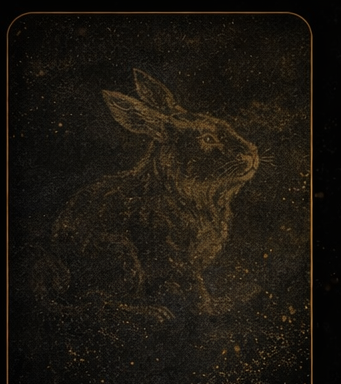
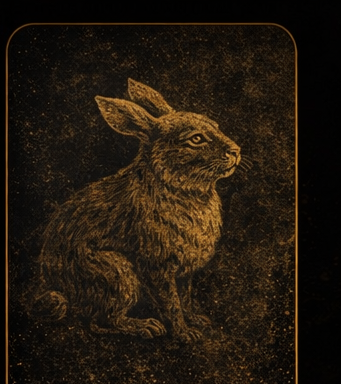
Add files via upload

diff --git a/index.html b/index.html
@@ -3,30 +3,21 @@
 <title>Treino Semanal Séries</title><meta name="theme-color" content="#050505">
 <link rel="manifest" href="/treino/manifest.json"><link rel="icon" href="/treino/icon-192.png">
 <style>
-:root{--panel:#111;--panel2:#1a1a1a;--text:#f5f5f5;--muted:#b8b8b8;--danger:#d93030;--good:#1db954;--warn:#d4a017;--border:rgba(255,255,255,.10);--shadow:0 14px 28px rgba(0,0,0,.3);--gold:#d4af37}
-*{box-sizing:border-box;-webkit-tap-highlight-color:transparent}
-body{margin:0;font-family:Arial,Helvetica,sans-serif;color:var(--text);background:linear-gradient(180deg,#000 0%,#111 100%)}
-.wrap{max-width:980px;margin:0 auto;padding:16px 14px 90px}
-.hero{position:sticky;top:0;z-index:20;background:rgba(0,0,0,.94);backdrop-filter:blur(10px);border-bottom:1px solid var(--border);margin:0 -14px 14px;padding:16px 14px}
+:root{--panel:#111;--panel2:#1a1a1a;--text:#f5f5f5;--muted:#b8b8b8;--danger:#d93030;--good:#1db954;--warn:#d4a017;--border:rgba(255,255,255,.10);--shadow:0 14px 28px rgba(0,0,0,.3)}
+*{box-sizing:border-box;-webkit-tap-highlight-color:transparent}body{margin:0;font-family:Arial,Helvetica,sans-serif;color:var(--text);background:linear-gradient(180deg,#000 0%,#111 100%)}
+.wrap{max-width:980px;margin:0 auto;padding:16px 14px 90px}.hero{position:sticky;top:0;z-index:20;background:rgba(0,0,0,.94);backdrop-filter:blur(10px);border-bottom:1px solid var(--border);margin:0 -14px 14px;padding:16px 14px}
 .hero h1{margin:0;font-size:30px}.hero p{margin:6px 0 0;color:var(--muted);font-size:14px;line-height:1.45}
-.proverb-card{position:relative;overflow:hidden;border:1px solid rgba(212,175,55,.24);border-radius:24px;box-shadow:var(--shadow);margin-bottom:14px;min-height:320px;background:#0d0d0d}
-.proverb-overlay{position:absolute;inset:0;background:
-linear-gradient(90deg, rgba(0,0,0,.84) 0%, rgba(0,0,0,.74) 38%, rgba(0,0,0,.42) 70%, rgba(0,0,0,.22) 100%),
-linear-gradient(180deg, rgba(0,0,0,.18), rgba(0,0,0,.34)),
-radial-gradient(circle at top right, rgba(212,175,55,.16), transparent 32%);
-z-index:1}
-.proverb-bg{position:absolute;inset:0;background-position:78% center;background-size:contain;background-repeat:no-repeat;filter:brightness(.92) contrast(1.02);transform:scale(.96)}
+.proverb-card{position:relative;overflow:hidden;border:1px solid rgba(212,175,55,.24);border-radius:24px;box-shadow:var(--shadow);margin-bottom:14px;min-height:330px;background:#0d0d0d}
+.proverb-bg{position:absolute;inset:0;background-position:center center;background-size:cover;background-repeat:no-repeat;filter:brightness(.95)}
+.proverb-overlay{position:absolute;inset:0;background:linear-gradient(90deg, rgba(0,0,0,.88) 0%, rgba(0,0,0,.78) 35%, rgba(0,0,0,.38) 65%, rgba(0,0,0,.18) 100%),linear-gradient(180deg, rgba(0,0,0,.12), rgba(0,0,0,.26));z-index:1}
 .proverb-content{position:relative;z-index:2;padding:18px;max-width:68%}
-.proverb-top{display:flex;justify-content:space-between;align-items:center;gap:12px}
-.proverb-label{font-size:12px;font-weight:800;letter-spacing:.16em;text-transform:uppercase;color:#f4df95}
+.proverb-top{display:flex;justify-content:space-between;align-items:center;gap:12px}.proverb-label{font-size:12px;font-weight:800;letter-spacing:.16em;text-transform:uppercase;color:#f4df95}
 .badge{font-size:11px;font-weight:700;border:1px solid rgba(255,255,255,.14);padding:6px 10px;border-radius:999px;color:#f3f3f3;background:rgba(255,255,255,.05)}
-.quote-wrap{margin-top:18px}
-.quote-mark{font-family:Georgia,"Times New Roman",serif;font-size:64px;line-height:.7;color:#d6ad4d;opacity:.95}
-.proverb-text{font-family:Georgia,"Times New Roman",serif;font-size:clamp(28px,5vw,42px);line-height:1.08;font-weight:700;color:#fff6dc;max-width:82%}
+.quote-mark{font-family:Georgia,"Times New Roman",serif;font-size:64px;line-height:.7;color:#d6ad4d;opacity:.95;margin-top:18px}
+.proverb-text{font-family:Georgia,"Times New Roman",serif;font-size:clamp(28px,5vw,42px);line-height:1.08;font-weight:700;color:#fff6dc}
 .proverb-footer{margin-top:18px;font-size:14px;color:#e6d39c}
 .block,.timer,.mini,.day,.history,.stats{background:var(--panel);border:1px solid var(--border);border-radius:20px;box-shadow:var(--shadow)}
-.block,.timer,.history,.stats{padding:14px;margin-bottom:14px}
-.block strong,.stats strong,.history strong{display:block;color:#fff;margin-bottom:6px}
+.block,.timer,.history,.stats{padding:14px;margin-bottom:14px}.block strong,.stats strong,.history strong{display:block;color:#fff;margin-bottom:6px}
 .row,.controls,.toolbar{display:flex;gap:10px;flex-wrap:wrap;margin-top:10px}
 button{border:0;border-radius:16px;padding:12px 14px;font-weight:700;font-size:16px;color:white;background:var(--panel2);min-height:48px}
 button.primary{background:#fff;color:#000}button.good{background:var(--good);color:#041c0e}button.danger{background:var(--danger)}button.warn{background:var(--warn);color:#2e2100}button.ghost{background:transparent;border:1px solid var(--border)}
@@ -39,18 +30,10 @@ button.primary{background:#fff;color:#000}button.good{background:var(--good);col
 .series-row{display:flex;gap:8px;flex-wrap:wrap;margin-top:10px}.series-box{width:34px;height:34px;border-radius:10px;border:2px solid rgba(255,255,255,.4);display:flex;align-items:center;justify-content:center;background:#fff;color:#000;font-weight:900;font-size:15px;cursor:pointer;user-select:none}
 .series-box.done{background:var(--good);border-color:var(--good);color:#041c0e}.series-label{font-size:12px;color:var(--muted);margin-top:6px}
 .history-item{background:rgba(255,255,255,.03);border:1px solid var(--border);border-radius:14px;padding:12px;margin-top:10px}.stats-grid{display:grid;grid-template-columns:1fr 1fr;gap:10px}.footer{color:var(--muted);text-align:center;font-size:12px;margin-top:12px}
-@media (max-width:480px){.proverb-text{max-width:100%;font-size:28px}.title{font-size:20px}.timer .time{font-size:38px}.proverb-card{min-height:280px}.proverb-bg{background-position:86% center;background-size:cover;transform:scale(1)}.proverb-content{max-width:76%}}
+@media (max-width:480px){.proverb-card{min-height:360px}.proverb-content{max-width:72%}.proverb-text{font-size:26px}.title{font-size:20px}.timer .time{font-size:38px}}
 </style></head><body><div class="wrap">
 <div class="hero"><h1>Treino Semanal Séries</h1><p>Agora com provérbio do dia em destaque e artes dos 12 animais do horóscopo chinês distribuídas pelas 60 frases.</p></div>
-<div class="proverb-card">
-  <div class="proverb-bg" id="proverbBg"></div>
-  <div class="proverb-overlay"></div>
-  <div class="proverb-content">
-    <div class="proverb-top"><div class="proverb-label">Provérbio do dia</div><div class="badge">Sabedoria oriental</div></div>
-    <div class="quote-wrap"><div class="quote-mark">“</div><div class="proverb-text" id="messageText"></div></div>
-    <div class="proverb-footer" id="animalName"></div>
-  </div>
-</div>
+<div class="proverb-card"><div class="proverb-bg" id="proverbBg"></div><div class="proverb-overlay"></div><div class="proverb-content"><div class="proverb-top"><div class="proverb-label">Provérbio do dia</div><div class="badge">Sabedoria oriental</div></div><div class="quote-mark">“</div><div class="proverb-text" id="messageText"></div><div class="proverb-footer" id="animalName"></div></div></div>
 <div class="block"><strong>Instalar como app</strong><div id="installText">Abra no Chrome e aguarde alguns segundos. Se o botão aparecer, toque nele.</div><div class="row"><button id="installBtn" class="good" style="display:none">Instalar app</button><button id="exportBtn" class="ghost">Exportar progresso</button></div></div>
 <div class="row"><button id="wakeBtn" class="warn">Modo academia: desligado</button><button id="notifyBtn" class="ghost">Som e vibração: ligados</button></div>
 <div class="grid"><div class="mini"><div class="label">Frequência</div><div class="value">5x/semana</div></div><div class="mini"><div class="label">Horários</div><div class="value">19h / 10h</div></div><div class="mini"><div class="label">Descanso</div><div class="value">45–90s</div></div><div class="mini"><div class="label">Meta da semana</div><div class="value" id="globalPct">0%</div></div></div>
@@ -61,7 +44,7 @@ button.primary{background:#fff;color:#000}button.good{background:var(--good);col
 <div class="history"><strong>Histórico</strong><div id="historyList">Nenhum treino finalizado ainda.</div></div>
 <div class="footer">App de treino com séries • provérbios do dia • salvo localmente no seu celular.</div></div>
 <script>
-const DAYS={"terca": {"title": "Terça — Peito + Tríceps", "sub": "19h • descanso 60–90s", "exs": [["Supino inclinado máquina", 4, "10 repetições", "90s"], ["Supino inclinado halter", 4, "10 repetições", "90s"], ["Crucifixo máquina", 4, "12 repetições", "60s"], ["Tríceps corda pulley", 4, "12 repetições", "60s"], ["Tríceps francês corda", 4, "12 repetições", "60s"], ["Coice corda isolado", 4, "12 repetições", "60s"]]}, "quarta": {"title": "Quarta — Costas + Bíceps", "sub": "19h • descanso 60–90s", "exs": [["Puxada frontal aberta", 4, "10 repetições", "90s"], ["Remada baixa triângulo", 4, "10 repetições", "90s"], ["Puxada em pé corda", 3, "12 repetições", "60s"], ["Crucifixo inverso", 3, "12 repetições", "60s"], ["Scott", 4, "10 repetições", "60s"], ["Rosca unilateral halter", 3, "10 repetições", "60s"], ["Polia baixa corda", 3, "12 repetições", "60s"]]}, "quinta": {"title": "Quinta — Perna + Ombro + Trapézio", "sub": "19h • perna primeiro • descanso 60–90s", "exs": [["Leg press", 4, "12 repetições", "90s"], ["Extensora", 3, "15 repetições", "60s"], ["Flexora", 3, "15 repetições", "60s"], ["Adutor", 3, "15 repetições", "60s"], ["Abdutor", 3, "15 repetições", "60s"], ["Panturrilha", 4, "15–20 repetições", "60s"], ["Desenvolvimento máquina", 4, "10 repetições", "90s"], ["Remada alta máquina", 3, "12 repetições", "60s"], ["Encolhimento trapézio", 4, "12–15 repetições", "60s"]]}, "sabado": {"title": "Sábado — Peito + Tríceps", "sub": "10h • variação leve • descanso 60–90s", "exs": [["Supino máquina reto", 4, "10 repetições", "90s"], ["Supino inclinado halter", 4, "10 repetições", "90s"], ["Crucifixo máquina", 4, "12 repetições", "60s"], ["Tríceps corda", 4, "12 repetições", "60s"], ["Francês corda", 4, "12 repetições", "60s"]]}, "domingo": {"title": "Domingo — Costas + Bíceps", "sub": "10h • descanso 60–90s", "exs": [["Puxada frontal aberta", 4, "10 repetições", "90s"], ["Remada baixa triângulo", 4, "10 repetições", "90s"], ["Crucifixo inverso", 3, "12 repetições", "60s"], ["Scott", 4, "10 repetições", "60s"], ["Rosca halter", 3, "10 repetições", "60s"]]}}, MESSAGE_CARDS=[{"text": "A jornada mais longa começa com o primeiro passo.", "animal": {"name": "Galo", "slug": "galo", "file": "animal_galo.png"}}, {"text": "Não tenha medo de andar devagar; tenha medo de ficar parado.", "animal": {"name": "Rato", "slug": "rato", "file": "animal_rato.png"}}, {"text": "Quem move uma montanha começa carregando pequenas pedras.", "animal": {"name": "Cavalo", "slug": "cavalo", "file": "animal_cavalo.png"}}, {"text": "A melhor hora para plantar uma árvore foi há vinte anos; a segunda melhor hora é agora.", "animal": {"name": "Porco", "slug": "porco", "file": "animal_porco.png"}}, {"text": "Água constante encontra caminho mesmo entre pedras.", "animal": {"name": "Boi", "slug": "boi", "file": "animal_boi.png"}}, {"text": "Quem aprende a esperar amadurece em silêncio.", "animal": {"name": "Cabra", "slug": "cabra", "file": "animal_cabra.png"}}, {"text": "Uma palavra branda pode abrir portas fechadas.", "animal": {"name": "Cão", "slug": "cao", "file": "animal_cao.png"}}, {"text": "A paciência é amarga, mas seus frutos são doces.", "animal": {"name": "Tigre", "slug": "tigre", "file": "animal_tigre.png"}}, {"text": "Quando o vento muda, alguns levantam muros; outros constroem moinhos.", "animal": {"name": "Dragão", "slug": "dragao", "file": "animal_dragao.png"}}, {"text": "Um rio profundo corre sem alarde.", "animal": {"name": "Macaco", "slug": "macaco", "file": "animal_macaco.png"}}, {"text": "Quem faz com constância vai além de quem começa com pressa.", "animal": {"name": "Coelho", "slug": "coelho", "file": "animal_coelho.png"}}, {"text": "O bambu que se dobra é mais forte do que o carvalho que resiste a tudo.", "animal": {"name": "Serpente", "slug": "serpente", "file": "animal_serpente.png"}}, {"text": "Antes de corrigir o mundo, arrume o próprio passo.", "animal": {"name": "Galo", "slug": "galo", "file": "animal_galo.png"}}, {"text": "O sábio observa mais do que fala.", "animal": {"name": "Cabra", "slug": "cabra", "file": "animal_cabra.png"}}, {"text": "Até a água turva se acalma quando deixada em repouso.", "animal": {"name": "Coelho", "slug": "coelho", "file": "animal_coelho.png"}}, {"text": "Grandes resultados nascem de pequenos gestos repetidos.", "animal": {"name": "Serpente", "slug": "serpente", "file": "animal_serpente.png"}}, {"text": "Quem domina a si mesmo já venceu metade da batalha.", "animal": {"name": "Rato", "slug": "rato", "file": "animal_rato.png"}}, {"text": "O tempo esclarece o que a pressa confunde.", "animal": {"name": "Cão", "slug": "cao", "file": "animal_cao.png"}}, {"text": "Nem todo silêncio é vazio; às vezes, é compreensão.", "animal": {"name": "Porco", "slug": "porco", "file": "animal_porco.png"}}, {"text": "O caminho fica mais leve para quem aprende a levar só o necessário.", "animal": {"name": "Macaco", "slug": "macaco", "file": "animal_macaco.png"}}, {"text": "Uma faísca cuidada pode acender grande chama.", "animal": {"name": "Tigre", "slug": "tigre", "file": "animal_tigre.png"}}, {"text": "Quem pergunta por um minuto aprende; quem não pergunta permanece perdido.", "animal": {"name": "Dragão", "slug": "dragao", "file": "animal_dragao.png"}}, {"text": "Mesmo a noite mais longa cede lugar ao amanhecer.", "animal": {"name": "Cavalo", "slug": "cavalo", "file": "animal_cavalo.png"}}, {"text": "O fruto amadurece no seu tempo, não no da ansiedade.", "animal": {"name": "Boi", "slug": "boi", "file": "animal_boi.png"}}, {"text": "A firmeza tranquila vale mais que a força impaciente.", "animal": {"name": "Porco", "slug": "porco", "file": "animal_porco.png"}}, {"text": "Quem cuida da raiz não teme a estação.", "animal": {"name": "Coelho", "slug": "coelho", "file": "animal_coelho.png"}}, {"text": "Uma casa em paz vale mais do que um palácio inquieto.", "animal": {"name": "Serpente", "slug": "serpente", "file": "animal_serpente.png"}}, {"text": "Não é a altura da montanha que vence o homem, mas a persistência do passo.", "animal": {"name": "Galo", "slug": "galo", "file": "animal_galo.png"}}, {"text": "Quem cultiva serenidade enxerga mais longe.", "animal": {"name": "Boi", "slug": "boi", "file": "animal_boi.png"}}, {"text": "O lago reflete o céu quando suas águas estão calmas.", "animal": {"name": "Macaco", "slug": "macaco", "file": "animal_macaco.png"}}, {"text": "Quando a mente se aquieta, a direção aparece.", "animal": {"name": "Cabra", "slug": "cabra", "file": "animal_cabra.png"}}, {"text": "O hábito de recomeçar é um tipo de sabedoria.", "animal": {"name": "Rato", "slug": "rato", "file": "animal_rato.png"}}, {"text": "A pressa tropeça onde a atenção pisaria firme.", "animal": {"name": "Cavalo", "slug": "cavalo", "file": "animal_cavalo.png"}}, {"text": "Quem guarda rancor carrega peso desnecessário.", "animal": {"name": "Tigre", "slug": "tigre", "file": "animal_tigre.png"}}, {"text": "Até o menor avanço é maior que a imobilidade.", "animal": {"name": "Cão", "slug": "cao", "file": "animal_cao.png"}}, {"text": "O homem prudente mede o passo antes de correr.", "animal": {"name": "Dragão", "slug": "dragao", "file": "animal_dragao.png"}}, {"text": "Uma árvore forte cresce devagar.", "animal": {"name": "Tigre", "slug": "tigre", "file": "animal_tigre.png"}}, {"text": "Quem espalha bondade nunca volta de mãos vazias.", "animal": {"name": "Serpente", "slug": "serpente", "file": "animal_serpente.png"}}, {"text": "O erro reconhecido já começou a se transformar em acerto.", "animal": {"name": "Cavalo", "slug": "cavalo", "file": "animal_cavalo.png"}}, {"text": "Quem escuta com atenção aprende duas vezes.", "animal": {"name": "Galo", "slug": "galo", "file": "animal_galo.png"}}, {"text": "A estrada ensina mais a quem caminha do que a quem apenas observa.", "animal": {"name": "Rato", "slug": "rato", "file": "animal_rato.png"}}, {"text": "Uma tigela cheia demais já não recebe mais nada.", "animal": {"name": "Dragão", "slug": "dragao", "file": "animal_dragao.png"}}, {"text": "O dia de hoje vale mais do que a promessa de amanhã.", "animal": {"name": "Cão", "slug": "cao", "file": "animal_cao.png"}}, {"text": "Quem mantém o coração em ordem organiza melhor o caminho.", "animal": {"name": "Porco", "slug": "porco", "file": "animal_porco.png"}}, {"text": "A calma é uma forma silenciosa de poder.", "animal": {"name": "Macaco", "slug": "macaco", "file": "animal_macaco.png"}}, {"text": "Não se apressa a primavera puxando as flores.", "animal": {"name": "Cabra", "slug": "cabra", "file": "animal_cabra.png"}}, {"text": "Quem aceita aprender nunca envelhece por dentro.", "animal": {"name": "Coelho", "slug": "coelho", "file": "animal_coelho.png"}}, {"text": "Uma lanterna pequena ainda é suficiente para atravessar a noite.", "animal": {"name": "Boi", "slug": "boi", "file": "animal_boi.png"}}, {"text": "Para endireitar o galho, cuide primeiro da raiz.", "animal": {"name": "Rato", "slug": "rato", "file": "animal_rato.png"}}, {"text": "Quem semeia constância colhe confiança.", "animal": {"name": "Boi", "slug": "boi", "file": "animal_boi.png"}}, {"text": "A verdade não precisa correr; ela chega.", "animal": {"name": "Coelho", "slug": "coelho", "file": "animal_coelho.png"}}, {"text": "A pedra é vencida menos pela força do golpe e mais pela repetição.", "animal": {"name": "Galo", "slug": "galo", "file": "animal_galo.png"}}, {"text": "Nem toda demora é perda; às vezes, é preparo.", "animal": {"name": "Macaco", "slug": "macaco", "file": "animal_macaco.png"}}, {"text": "Quem faz o simples com atenção constrói o extraordinário.", "animal": {"name": "Cabra", "slug": "cabra", "file": "animal_cabra.png"}}, {"text": "A mente apressada vê pouco; o olhar sereno enxerga fundo.", "animal": {"name": "Dragão", "slug": "dragao", "file": "animal_dragao.png"}}, {"text": "Se o coração estiver em paz, o caminho parecerá menos áspero.", "animal": {"name": "Serpente", "slug": "serpente", "file": "animal_serpente.png"}}, {"text": "O excesso de ruído afasta a clareza.", "animal": {"name": "Cavalo", "slug": "cavalo", "file": "animal_cavalo.png"}}, {"text": "Uma ponte se sustenta porque cada parte cumpre o seu papel.", "animal": {"name": "Porco", "slug": "porco", "file": "animal_porco.png"}}, {"text": "Quem honra o presente prepara melhor o futuro.", "animal": {"name": "Cão", "slug": "cao", "file": "animal_cao.png"}}, {"text": "O homem que cuida do que pensa melhora o que vive.", "animal": {"name": "Tigre", "slug": "tigre", "file": "animal_tigre.png"}}], REPO='/treino/', daysContainer=document.getElementById('daysContainer');
+const DAYS={"terca": {"title": "Terça — Peito + Tríceps", "sub": "19h • descanso 60–90s", "exs": [["Supino inclinado máquina", 4, "10 repetições", "90s"], ["Supino inclinado halter", 4, "10 repetições", "90s"], ["Crucifixo máquina", 4, "12 repetições", "60s"], ["Tríceps corda pulley", 4, "12 repetições", "60s"], ["Tríceps francês corda", 4, "12 repetições", "60s"], ["Coice corda isolado", 4, "12 repetições", "60s"]]}, "quarta": {"title": "Quarta — Costas + Bíceps", "sub": "19h • descanso 60–90s", "exs": [["Puxada frontal aberta", 4, "10 repetições", "90s"], ["Remada baixa triângulo", 4, "10 repetições", "90s"], ["Puxada em pé corda", 3, "12 repetições", "60s"], ["Crucifixo inverso", 3, "12 repetições", "60s"], ["Scott", 4, "10 repetições", "60s"], ["Rosca unilateral halter", 3, "10 repetições", "60s"], ["Polia baixa corda", 3, "12 repetições", "60s"]]}, "quinta": {"title": "Quinta — Perna + Ombro + Trapézio", "sub": "19h • perna primeiro • descanso 60–90s", "exs": [["Leg press", 4, "12 repetições", "90s"], ["Extensora", 3, "15 repetições", "60s"], ["Flexora", 3, "15 repetições", "60s"], ["Adutor", 3, "15 repetições", "60s"], ["Abdutor", 3, "15 repetições", "60s"], ["Panturrilha", 4, "15–20 repetições", "60s"], ["Desenvolvimento máquina", 4, "10 repetições", "90s"], ["Remada alta máquina", 3, "12 repetições", "60s"], ["Encolhimento trapézio", 4, "12–15 repetições", "60s"]]}, "sabado": {"title": "Sábado — Peito + Tríceps", "sub": "10h • variação leve • descanso 60–90s", "exs": [["Supino máquina reto", 4, "10 repetições", "90s"], ["Supino inclinado halter", 4, "10 repetições", "90s"], ["Crucifixo máquina", 4, "12 repetições", "60s"], ["Tríceps corda", 4, "12 repetições", "60s"], ["Francês corda", 4, "12 repetições", "60s"]]}, "domingo": {"title": "Domingo — Costas + Bíceps", "sub": "10h • descanso 60–90s", "exs": [["Puxada frontal aberta", 4, "10 repetições", "90s"], ["Remada baixa triângulo", 4, "10 repetições", "90s"], ["Crucifixo inverso", 3, "12 repetições", "60s"], ["Scott", 4, "10 repetições", "60s"], ["Rosca halter", 3, "10 repetições", "60s"]]}}, MESSAGE_CARDS=[{"text": "A jornada mais longa começa com o primeiro passo.", "animal": {"name": "Coelho", "slug": "coelho", "file": "animal_coelho.png"}}, {"text": "Não tenha medo de andar devagar; tenha medo de ficar parado.", "animal": {"name": "Serpente", "slug": "serpente", "file": "animal_serpente.png"}}, {"text": "Quem move uma montanha começa carregando pequenas pedras.", "animal": {"name": "Dragão", "slug": "dragao", "file": "animal_dragao.png"}}, {"text": "A melhor hora para plantar uma árvore foi há vinte anos; a segunda melhor hora é agora.", "animal": {"name": "Macaco", "slug": "macaco", "file": "animal_macaco.png"}}, {"text": "Água constante encontra caminho mesmo entre pedras.", "animal": {"name": "Rato", "slug": "rato", "file": "animal_rato.png"}}, {"text": "Quem aprende a esperar amadurece em silêncio.", "animal": {"name": "Cabra", "slug": "cabra", "file": "animal_cabra.png"}}, {"text": "Uma palavra branda pode abrir portas fechadas.", "animal": {"name": "Tigre", "slug": "tigre", "file": "animal_tigre.png"}}, {"text": "A paciência é amarga, mas seus frutos são doces.", "animal": {"name": "Cavalo", "slug": "cavalo", "file": "animal_cavalo.png"}}, {"text": "Quando o vento muda, alguns levantam muros; outros constroem moinhos.", "animal": {"name": "Porco", "slug": "porco", "file": "animal_porco.png"}}, {"text": "Um rio profundo corre sem alarde.", "animal": {"name": "Cão", "slug": "cao", "file": "animal_cao.png"}}, {"text": "Quem faz com constância vai além de quem começa com pressa.", "animal": {"name": "Boi", "slug": "boi", "file": "animal_boi.png"}}, {"text": "O bambu que se dobra é mais forte do que o carvalho que resiste a tudo.", "animal": {"name": "Galo", "slug": "galo", "file": "animal_galo.png"}}, {"text": "Antes de corrigir o mundo, arrume o próprio passo.", "animal": {"name": "Macaco", "slug": "macaco", "file": "animal_macaco.png"}}, {"text": "O sábio observa mais do que fala.", "animal": {"name": "Galo", "slug": "galo", "file": "animal_galo.png"}}, {"text": "Até a água turva se acalma quando deixada em repouso.", "animal": {"name": "Rato", "slug": "rato", "file": "animal_rato.png"}}, {"text": "Grandes resultados nascem de pequenos gestos repetidos.", "animal": {"name": "Porco", "slug": "porco", "file": "animal_porco.png"}}, {"text": "Quem domina a si mesmo já venceu metade da batalha.", "animal": {"name": "Serpente", "slug": "serpente", "file": "animal_serpente.png"}}, {"text": "O tempo esclarece o que a pressa confunde.", "animal": {"name": "Cavalo", "slug": "cavalo", "file": "animal_cavalo.png"}}, {"text": "Nem todo silêncio é vazio; às vezes, é compreensão.", "animal": {"name": "Cão", "slug": "cao", "file": "animal_cao.png"}}, {"text": "O caminho fica mais leve para quem aprende a levar só o necessário.", "animal": {"name": "Dragão", "slug": "dragao", "file": "animal_dragao.png"}}, {"text": "Uma faísca cuidada pode acender grande chama.", "animal": {"name": "Boi", "slug": "boi", "file": "animal_boi.png"}}, {"text": "Quem pergunta por um minuto aprende; quem não pergunta permanece perdido.", "animal": {"name": "Tigre", "slug": "tigre", "file": "animal_tigre.png"}}, {"text": "Mesmo a noite mais longa cede lugar ao amanhecer.", "animal": {"name": "Coelho", "slug": "coelho", "file": "animal_coelho.png"}}, {"text": "O fruto amadurece no seu tempo, não no da ansiedade.", "animal": {"name": "Cabra", "slug": "cabra", "file": "animal_cabra.png"}}, {"text": "A firmeza tranquila vale mais que a força impaciente.", "animal": {"name": "Serpente", "slug": "serpente", "file": "animal_serpente.png"}}, {"text": "Quem cuida da raiz não teme a estação.", "animal": {"name": "Coelho", "slug": "coelho", "file": "animal_coelho.png"}}, {"text": "Uma casa em paz vale mais do que um palácio inquieto.", "animal": {"name": "Macaco", "slug": "macaco", "file": "animal_macaco.png"}}, {"text": "Não é a altura da montanha que vence o homem, mas a persistência do passo.", "animal": {"name": "Galo", "slug": "galo", "file": "animal_galo.png"}}, {"text": "Quem cultiva serenidade enxerga mais longe.", "animal": {"name": "Cão", "slug": "cao", "file": "animal_cao.png"}}, {"text": "O lago reflete o céu quando suas águas estão calmas.", "animal": {"name": "Cabra", "slug": "cabra", "file": "animal_cabra.png"}}, {"text": "Quando a mente se aquieta, a direção aparece.", "animal": {"name": "Rato", "slug": "rato", "file": "animal_rato.png"}}, {"text": "O hábito de recomeçar é um tipo de sabedoria.", "animal": {"name": "Cavalo", "slug": "cavalo", "file": "animal_cavalo.png"}}, {"text": "A pressa tropeça onde a atenção pisaria firme.", "animal": {"name": "Porco", "slug": "porco", "file": "animal_porco.png"}}, {"text": "Quem guarda rancor carrega peso desnecessário.", "animal": {"name": "Dragão", "slug": "dragao", "file": "animal_dragao.png"}}, {"text": "Até o menor avanço é maior que a imobilidade.", "animal": {"name": "Tigre", "slug": "tigre", "file": "animal_tigre.png"}}, {"text": "O homem prudente mede o passo antes de correr.", "animal": {"name": "Boi", "slug": "boi", "file": "animal_boi.png"}}, {"text": "Uma árvore forte cresce devagar.", "animal": {"name": "Galo", "slug": "galo", "file": "animal_galo.png"}}, {"text": "Quem espalha bondade nunca volta de mãos vazias.", "animal": {"name": "Tigre", "slug": "tigre", "file": "animal_tigre.png"}}, {"text": "O erro reconhecido já começou a se transformar em acerto.", "animal": {"name": "Coelho", "slug": "coelho", "file": "animal_coelho.png"}}, {"text": "Quem escuta com atenção aprende duas vezes.", "animal": {"name": "Macaco", "slug": "macaco", "file": "animal_macaco.png"}}, {"text": "A estrada ensina mais a quem caminha do que a quem apenas observa.", "animal": {"name": "Serpente", "slug": "serpente", "file": "animal_serpente.png"}}, {"text": "Uma tigela cheia demais já não recebe mais nada.", "animal": {"name": "Dragão", "slug": "dragao", "file": "animal_dragao.png"}}, {"text": "O dia de hoje vale mais do que a promessa de amanhã.", "animal": {"name": "Cão", "slug": "cao", "file": "animal_cao.png"}}, {"text": "Quem mantém o coração em ordem organiza melhor o caminho.", "animal": {"name": "Cabra", "slug": "cabra", "file": "animal_cabra.png"}}, {"text": "A calma é uma forma silenciosa de poder.", "animal": {"name": "Rato", "slug": "rato", "file": "animal_rato.png"}}, {"text": "Não se apressa a primavera puxando as flores.", "animal": {"name": "Boi", "slug": "boi", "file": "animal_boi.png"}}, {"text": "Quem aceita aprender nunca envelhece por dentro.", "animal": {"name": "Cavalo", "slug": "cavalo", "file": "animal_cavalo.png"}}, {"text": "Uma lanterna pequena ainda é suficiente para atravessar a noite.", "animal": {"name": "Porco", "slug": "porco", "file": "animal_porco.png"}}, {"text": "Para endireitar o galho, cuide primeiro da raiz.", "animal": {"name": "Galo", "slug": "galo", "file": "animal_galo.png"}}, {"text": "Quem semeia constância colhe confiança.", "animal": {"name": "Cavalo", "slug": "cavalo", "file": "animal_cavalo.png"}}, {"text": "A verdade não precisa correr; ela chega.", "animal": {"name": "Dragão", "slug": "dragao", "file": "animal_dragao.png"}}, {"text": "A pedra é vencida menos pela força do golpe e mais pela repetição.", "animal": {"name": "Coelho", "slug": "coelho", "file": "animal_coelho.png"}}, {"text": "Nem toda demora é perda; às vezes, é preparo.", "animal": {"name": "Rato", "slug": "rato", "file": "animal_rato.png"}}, {"text": "Quem faz o simples com atenção constrói o extraordinário.", "animal": {"name": "Porco", "slug": "porco", "file": "animal_porco.png"}}, {"text": "A mente apressada vê pouco; o olhar sereno enxerga fundo.", "animal": {"name": "Cão", "slug": "cao", "file": "animal_cao.png"}}, {"text": "Se o coração estiver em paz, o caminho parecerá menos áspero.", "animal": {"name": "Serpente", "slug": "serpente", "file": "animal_serpente.png"}}, {"text": "O excesso de ruído afasta a clareza.", "animal": {"name": "Cabra", "slug": "cabra", "file": "animal_cabra.png"}}, {"text": "Uma ponte se sustenta porque cada parte cumpre o seu papel.", "animal": {"name": "Tigre", "slug": "tigre", "file": "animal_tigre.png"}}, {"text": "Quem honra o presente prepara melhor o futuro.", "animal": {"name": "Boi", "slug": "boi", "file": "animal_boi.png"}}, {"text": "O homem que cuida do que pensa melhora o que vive.", "animal": {"name": "Macaco", "slug": "macaco", "file": "animal_macaco.png"}}], REPO='/treino/', daysContainer=document.getElementById('daysContainer');
 function dayIndex(){const start=new Date('2026-01-01'); const now=new Date(); return Math.abs(Math.floor((now-start)/(1000*60*60*24)));}
 const todayCard=MESSAGE_CARDS[dayIndex()%MESSAGE_CARDS.length];
 document.getElementById('messageText').textContent=todayCard.text;

diff --git a/sw.js b/sw.js
@@ -1,1 +1,1 @@
-const CACHE='treino-proverbios-artes-60-v1';const ASSETS=["/treino/", "/treino/index.html", "/treino/manifest.json", "/treino/icon-192.png", "/treino/icon-512.png", "/treino/animal_dragao.png", "/treino/animal_tigre.png", "/treino/animal_coelho.png", "/treino/animal_cavalo.png", "/treino/animal_cabra.png", "/treino/animal_serpente.png", "/treino/animal_macaco.png", "/treino/animal_galo.png", "/treino/animal_boi.png", "/treino/animal_cao.png", "/treino/animal_porco.png", "/treino/animal_rato.png"];self.addEventListener('install',e=>{e.waitUntil(caches.open(CACHE).then(c=>c.addAll(ASSETS)));self.skipWaiting();});self.addEventListener('activate',e=>{e.waitUntil(caches.keys().then(keys=>Promise.all(keys.filter(k=>k!==CACHE).map(k=>caches.delete(k)))));self.clients.claim();});self.addEventListener('fetch',e=>{if(e.request.method!=='GET')return; e.respondWith(caches.match(e.request).then(r=>r||fetch(e.request).then(n=>{const cp=n.clone(); caches.open(CACHE).then(c=>c.put(e.request,cp)); return n;}).catch(()=>caches.match('/treino/index.html'))));});
+const CACHE='treino-final-animais-v2';const ASSETS=["/treino/", "/treino/index.html", "/treino/manifest.json", "/treino/icon-192.png", "/treino/icon-512.png", "/treino/animal_dragao.png", "/treino/animal_tigre.png", "/treino/animal_coelho.png", "/treino/animal_cavalo.png", "/treino/animal_cabra.png", "/treino/animal_serpente.png", "/treino/animal_macaco.png", "/treino/animal_galo.png", "/treino/animal_boi.png", "/treino/animal_porco.png", "/treino/animal_rato.png", "/treino/animal_cao.png"];self.addEventListener('install',e=>{e.waitUntil(caches.open(CACHE).then(c=>c.addAll(ASSETS)));self.skipWaiting();});self.addEventListener('activate',e=>{e.waitUntil(caches.keys().then(keys=>Promise.all(keys.filter(k=>k!==CACHE).map(k=>caches.delete(k)))));self.clients.claim();});self.addEventListener('fetch',e=>{if(e.request.method!=='GET')return; e.respondWith(caches.match(e.request).then(r=>r||fetch(e.request).then(n=>{const cp=n.clone(); caches.open(CACHE).then(c=>c.put(e.request,cp)); return n;}).catch(()=>caches.match('/treino/index.html'))));});
